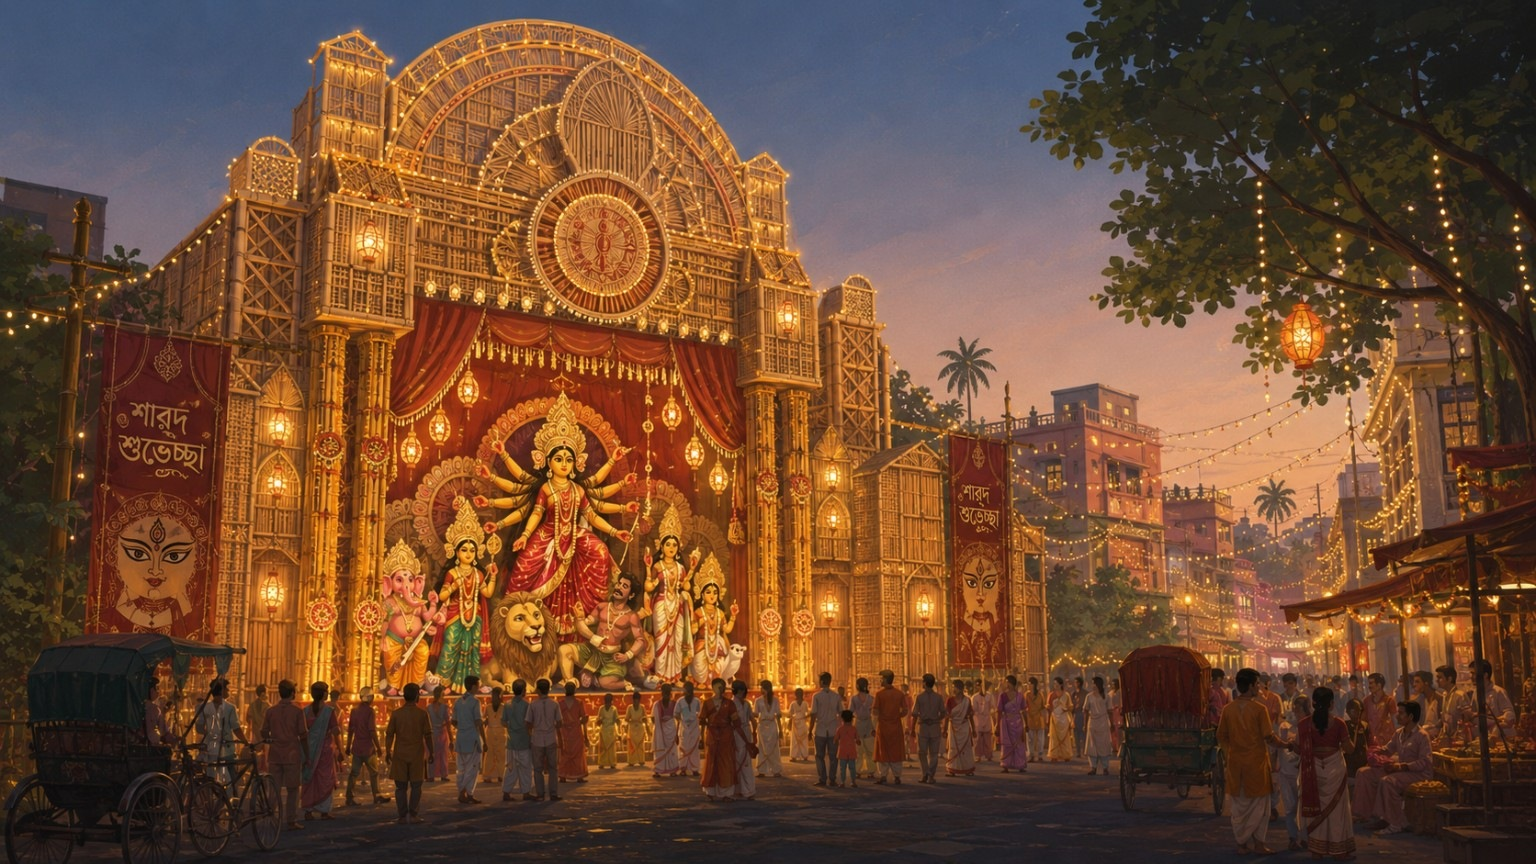
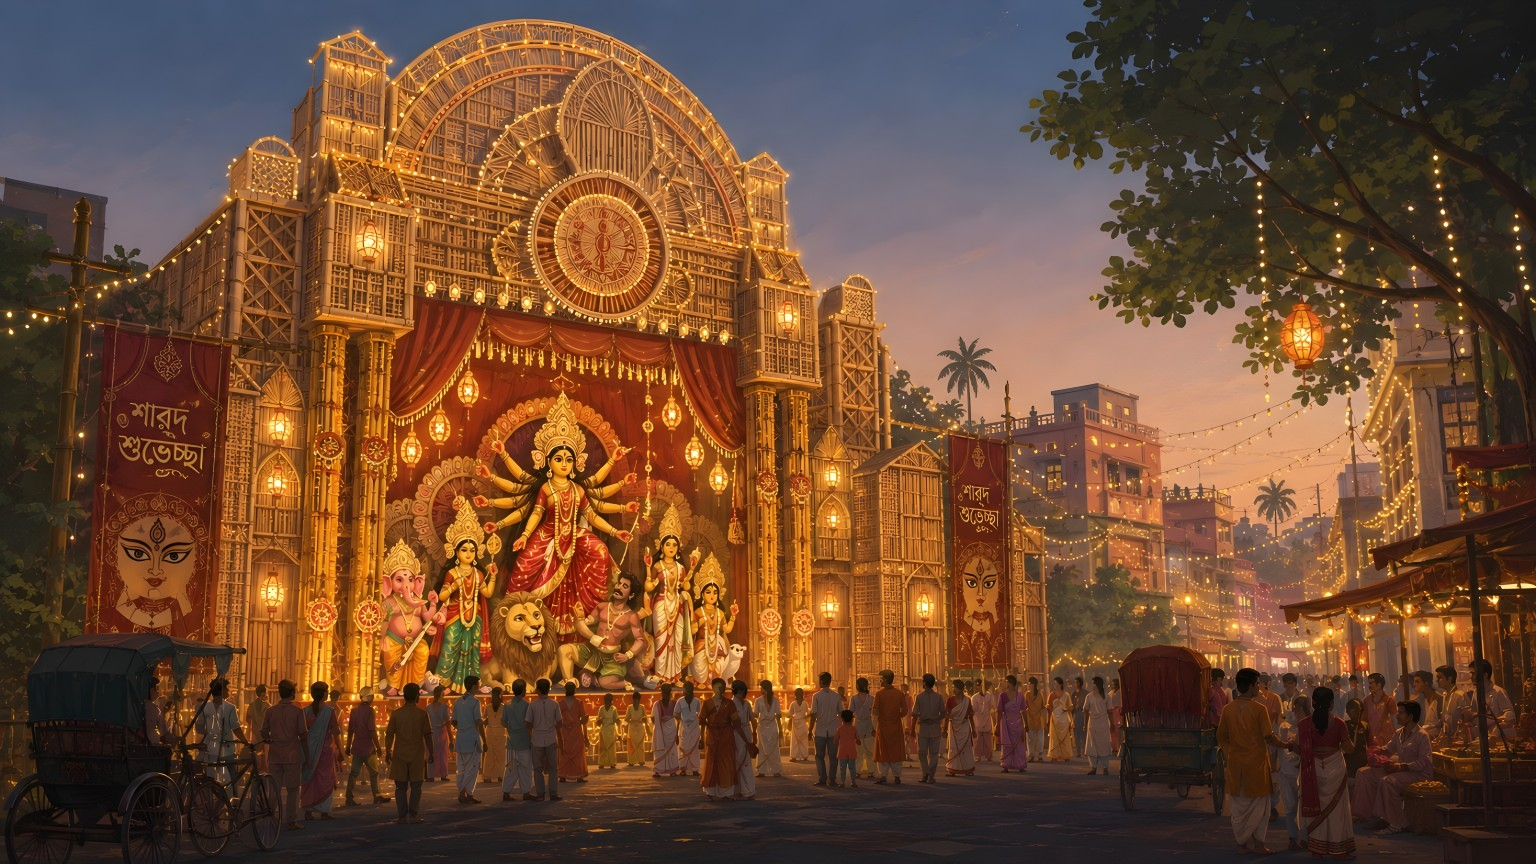
Add files via upload

Changed region(s): [[0.625, 0.5938, 0.6562, 0.625], [0.3438, 0.5, 0.375, 0.5312]]

diff --git a/script.js b/script.js
@@ -1,12 +1,17 @@
 const FESTIVALS={
- durga:{name:"Durga Puja",mark:"01",subtitle:"The first Puja day is almost here.",target:"2026-10-16T00:00:00+05:30",date:"Friday, 16 October 2026",playlistId:"PLcEXU5KhRttE",background:"/durga-puja.jpg"},
- kali:{name:"Kali Puja",mark:"02",subtitle:"A night of lights, devotion and celebration.",target:"2026-11-08T00:00:00+05:30",date:"Sunday, 8 November 2026",playlistId:"PLHwvw4RcSUnk",background:"/kali-puja.jpg"},
- diwali:{name:"Diwali",mark:"03",subtitle:"The festival of lights is getting closer.",target:"2026-11-08T00:00:00+05:30",date:"Sunday, 8 November 2026",playlistId:"PLVJ3mfjGvnXU",background:"/diwali.jpg"}
+ durga:{name:"Durga Puja",mark:"01",subtitle:"The first Puja day is almost here.",target:"2026-10-16T00:00:00+05:30",date:"Friday, 16 October 2026",playlistId:"PLcEXU5KhRttE",background:"/durga-puja.jpg",mobileBackground:"/durga-puja-mobile.jpg"},
+ kali:{name:"Kali Puja",mark:"02",subtitle:"A night of lights, devotion and celebration.",target:"2026-11-08T00:00:00+05:30",date:"Sunday, 8 November 2026",playlistId:"PLHwvw4RcSUnk",background:"/kali-puja.jpg",mobileBackground:"/kali-puja-mobile.jpg"},
+ mahalaya:{name:"Mahalaya",mark:"03",subtitle:"The sacred Mahalaya morning is getting closer.",target:"2026-10-10T00:00:00+05:30",date:"Saturday, 10 October 2026",playlistId:"PLZMOb9zpbEKQ",background:"/mahalaya.jpg",mobileBackground:"/mahalaya-mobile.jpg",
+   playlists:{
+     iconic:{name:"Iconic Mahalaya",playlistId:"PLZMOb9zpbEKQ"},
+     collection:{name:"Mahalaya Collection",playlistId:"PLPEyl3dIK7O0"}
+   }
+ }
 };
-let selected=(location.pathname.includes("/kali-puja-countdown/")?"kali":location.pathname.includes("/diwali-countdown/")?"diwali":"durga"),ytPlayer=null,shuffle=false,repeat=false,playlistCache={};
+let selected=(location.pathname.includes("/kali-puja-countdown/")?"kali":location.pathname.includes("/mahalaya-countdown/")?"mahalaya":"durga"),ytPlayer=null,shuffle=false,repeat=false,playlistCache={},currentPlaylistId=null,currentPlaylistKey="iconic";
 const $=s=>document.querySelector(s);
 
-let celebrationShown={durga:false,kali:false,diwali:false};
+let celebrationShown={durga:false,kali:false,mahalaya:false};
 
 const FESTIVE_MESSAGES={
   50:(name)=>`${name} is getting closer. There’s still a little time — enjoy the playlist and set the mood.`,
@@ -97,14 +102,41 @@ function renderFestival(){
  celebrationShown[selected]=false; document.body.classList.remove("festival-arrived");
  $("#festivalMark").textContent=f.mark;$("#festivalTitle").textContent=f.name;
  $("#festivalSubtitle").textContent=f.subtitle;$("#targetDate").textContent=f.date;
- $("#playlistName").textContent=f.name;$("#scene").style.backgroundImage=`url("${f.background}")`;
+ $("#playlistName").textContent=f.name;
+ const scene=$("#scene");
+ if(scene){
+   scene.style.setProperty("--desktop-bg",`url("${f.background}")`);
+   scene.style.setProperty("--mobile-bg",`url("${f.mobileBackground||f.background}")`);
+ }
  document.querySelectorAll(".tab").forEach(b=>b.classList.toggle("active",b.dataset.festival===selected));
- createYouTubePlayer("youtubePlayer",f.playlistId,185,false);
+
+ const choiceBox=$("#mahalayaPlaylistChoices");
+ if(choiceBox){
+   const isMahalaya=selected==="mahalaya";
+   choiceBox.hidden=!isMahalaya;
+   if(isMahalaya){
+     const validKeys=["iconic","collection"];
+     if(!validKeys.includes(currentPlaylistKey))currentPlaylistKey="iconic";
+     document.querySelectorAll(".playlist-choice").forEach(b=>{
+       const on=b.dataset.playlist===currentPlaylistKey;
+       b.classList.toggle("active",on);
+       b.setAttribute("aria-pressed",String(on));
+     });
+     currentPlaylistId=f.playlists[currentPlaylistKey].playlistId;
+   }else{
+     currentPlaylistId=f.playlistId;
+   }
+ }
+ if(ytPlayer && typeof ytPlayer.destroy==="function"){
+   try{ytPlayer.destroy();}catch(e){}
+   ytPlayer=null;
+ }
+ createYouTubePlayer("youtubePlayer",currentPlaylistId||f.playlistId,185,false);
 }
 function loadYTAPI(){
- if(window.YT?.Player){createYouTubePlayer("youtubePlayer",FESTIVALS[selected].playlistId,185,false);return;}
+ if(window.YT?.Player){createYouTubePlayer("youtubePlayer",currentPlaylistId||FESTIVALS[selected].playlistId,185,false);return;}
  if(document.getElementById("youtube-api"))return;
- window.onYouTubeIframeAPIReady=()=>createYouTubePlayer("youtubePlayer",FESTIVALS[selected].playlistId,185,false);
+ window.onYouTubeIframeAPIReady=()=>createYouTubePlayer("youtubePlayer",currentPlaylistId||FESTIVALS[selected].playlistId,185,false);
  const s=document.createElement("script");s.id="youtube-api";s.src="https://www.youtube.com/iframe_api";document.head.appendChild(s);
 }
 function createYouTubePlayer(containerId,playlistId,height,isModal=false){
@@ -162,7 +194,7 @@ $("#ytRepeat").addEventListener("click",()=>{repeat=!repeat;syncModes();ytPlayer
 async function getPlaylistItems(playlistId){
  if(playlistCache[playlistId])return playlistCache[playlistId];
 
- if(!Object.values(FESTIVALS).some(f=>f.playlistId===playlistId)){
+ if(!Object.values(FESTIVALS).some(f=>f.playlistId===playlistId) && !Object.values(FESTIVALS).some(f=>f.playlists && Object.values(f.playlists).some(p=>p.playlistId===playlistId))){
    throw new Error("Playlist is not configured.");
  }
 
@@ -275,7 +307,7 @@ async function openPlaylist(){
  box.innerHTML='<div class="playlist-loading"><span class="loading-dot"></span> Loading all songs…</div>';
 
  try{
-   const items=await getPlaylistItems(f.playlistId);
+   const items=await getPlaylistItems(currentPlaylistId||f.playlistId);
    renderPlaylistItems(items);
  }catch(e){
    box.innerHTML=
@@ -292,7 +324,26 @@ function closePlaylist(){
  document.body.style.overflow="";
 }
 
-document.querySelectorAll(".tab").forEach(b=>b.addEventListener("click",()=>{selected=b.dataset.festival;renderFestival();}));
+document.querySelectorAll(".tab").forEach(b=>b.addEventListener("click",()=>{selected=b.dataset.festival; if(selected!=="mahalaya")currentPlaylistKey="iconic"; renderFestival();}));
+
+document.querySelectorAll(".playlist-choice").forEach(b=>b.addEventListener("click",()=>{
+  if(selected!=="mahalaya")return;
+  currentPlaylistKey=b.dataset.playlist;
+  const f=FESTIVALS.mahalaya;
+  currentPlaylistId=f.playlists[currentPlaylistKey].playlistId;
+  document.querySelectorAll(".playlist-choice").forEach(x=>{
+    const on=x.dataset.playlist===currentPlaylistKey;
+    x.classList.toggle("active",on);
+    x.setAttribute("aria-pressed",String(on));
+  });
+  if(ytPlayer && typeof ytPlayer.destroy==="function"){
+    try{ytPlayer.destroy();}catch(e){}
+    ytPlayer=null;
+  }
+  createYouTubePlayer("youtubePlayer",currentPlaylistId,185,false);
+  $("#playlistName").textContent=f.name+" • "+f.playlists[currentPlaylistKey].name;
+  $("#playlistStatus").textContent="Playlist selected • tap play to begin";
+}));
 $("#openPlaylist").addEventListener("click",openPlaylist);$("#closePlaylist").addEventListener("click",closePlaylist);$("#closeByBackdrop").addEventListener("click",closePlaylist);
 document.addEventListener("keydown",e=>{if(e.key==="Escape"&&!$("#playlistModal").hidden)closePlaylist();});
 renderFestival();updateCountdown();setInterval(updateCountdown,1000);
@@ -346,5 +397,38 @@ renderFestival();updateCountdown();setInterval(updateCountdown,1000);
     if(e.key==="Escape"){
       document.querySelectorAll(".creator-modal:not([hidden])").forEach(m=>m.hidden=true);
     }
+  });
+})();
+
+/* Copyable UPI ID */
+(()=>{
+  const copyBtn=document.getElementById("copyUpi");
+  const value=document.getElementById("upiIdValue");
+  const status=document.getElementById("upiCopyStatus");
+  if(!copyBtn || !value)return;
+  copyBtn.addEventListener("click",async()=>{
+    const text=value.textContent.trim();
+    try{
+      await navigator.clipboard.writeText(text);
+      copyBtn.textContent="Copied!";
+      if(status)status.textContent="UPI ID copied to clipboard.";
+    }catch(e){
+      const area=document.createElement("textarea");
+      area.value=text;
+      area.setAttribute("readonly","");
+      area.style.position="fixed";
+      area.style.opacity="0";
+      document.body.appendChild(area);
+      area.select();
+      try{
+        document.execCommand("copy");
+        copyBtn.textContent="Copied!";
+        if(status)status.textContent="UPI ID copied to clipboard.";
+      }catch(_){
+        if(status)status.textContent="Copy failed — please copy the UPI ID manually.";
+      }
+      area.remove();
+    }
+    setTimeout(()=>{copyBtn.textContent="Copy"; if(status)status.textContent="";},1800);
   });
 })();

diff --git a/index.html b/index.html
@@ -4,23 +4,23 @@
   <meta charset="utf-8">
   <meta name="viewport" content="width=device-width, initial-scale=1, viewport-fit=cover">
   <meta name="theme-color" content="#111016">
-  <title>Utsav — Durga Puja, Kali Puja & Diwali Countdown 2026</title>
-  <meta name="description" content="Utsav is a live 2026 countdown for Durga Puja, Kali Puja and Diwali with festive backgrounds and YouTube music playlists.">
-  <meta name="keywords" content="Durga Puja countdown, Kali Puja countdown, Diwali countdown, Durga Puja 2026, Kali Puja 2026, Diwali 2026, Utsav">
+  <title>Utsav — Durga Puja, Kali Puja & Mahalaya Countdown 2026</title>
+  <meta name="description" content="Utsav is a live 2026 countdown for Durga Puja, Kali Puja and Mahalaya with festive artwork, real-time timers and nostalgic festive music playlists.">
+  <meta name="keywords" content="Durga Puja countdown, Kali Puja countdown, Mahalaya countdown, Durga Puja 2026, Kali Puja 2026, Mahalaya 2026, Mahalaya date 2026, Mahalaya days left, Utsav">
   <meta name="author" content="Utsav">
   <meta name="application-name" content="Utsav">
   <meta name="apple-mobile-web-app-title" content="Utsav">
   <meta property="og:image" content="https://utsav-countdown.vercel.app/durga-puja.jpg">
   <meta name="twitter:card" content="summary_large_image">
-  <meta name="twitter:title" content="Utsav — Durga Puja, Kali Puja & Diwali Countdown 2026">
-  <meta name="twitter:description" content="Live 2026 countdowns for Durga Puja, Kali Puja and Diwali, plus festive YouTube music playlists.">
+  <meta name="twitter:title" content="Utsav — Durga Puja, Kali Puja & Mahalaya Countdown 2026">
+  <meta name="twitter:description" content="Live 2026 countdowns for Durga Puja, Kali Puja and Mahalaya, plus festive YouTube music playlists.">
   <meta name="twitter:image" content="https://utsav-countdown.vercel.app/durga-puja.jpg">
   <script type="application/ld+json">
   {
     "@context":"https://schema.org",
     "@graph":[
-      {"@type":"WebSite","@id":"https://utsav-countdown.vercel.app/#website","url":"https://utsav-countdown.vercel.app/","name":"Utsav","description":"Live countdowns for Durga Puja, Kali Puja and Diwali."},
-      {"@type":"WebPage","@id":"https://utsav-countdown.vercel.app/#webpage","url":"https://utsav-countdown.vercel.app/","name":"Utsav — Durga Puja, Kali Puja & Diwali Countdown 2026","isPartOf":{"@id":"https://utsav-countdown.vercel.app/#website"},"about":[{"@type":"Thing","name":"Durga Puja"},{"@type":"Thing","name":"Kali Puja"},{"@type":"Thing","name":"Diwali"}]}
+      {"@type":"WebSite","@id":"https://utsav-countdown.vercel.app/#website","url":"https://utsav-countdown.vercel.app/","name":"Utsav","description":"Live countdowns for Durga Puja, Kali Puja and Mahalaya."},
+      {"@type":"WebPage","@id":"https://utsav-countdown.vercel.app/#webpage","url":"https://utsav-countdown.vercel.app/","name":"Utsav — Durga Puja, Kali Puja & Mahalaya Countdown 2026","isPartOf":{"@id":"https://utsav-countdown.vercel.app/#website"},"about":[{"@type":"Thing","name":"Durga Puja"},{"@type":"Thing","name":"Kali Puja"},{"@type":"Thing","name":"Mahalaya"}]}
     ]
   }
   </script>
@@ -28,8 +28,8 @@
   <meta name="robots" content="index, follow, max-image-preview:large">
   <link rel="canonical" href="https://utsav-countdown.vercel.app/">
   <meta property="og:type" content="website">
-  <meta property="og:title" content="Utsav — Durga Puja, Kali Puja & Diwali Countdown">
-  <meta property="og:description" content="Live Durga Puja, Kali Puja and Diwali countdowns with festive music.">
+  <meta property="og:title" content="Utsav — Durga Puja, Kali Puja & Mahalaya Countdown">
+  <meta property="og:description" content="Live Durga Puja, Kali Puja and Mahalaya countdowns with festive music.">
   <meta property="og:site_name" content="Utsav">
   <link rel="icon" href="/durga-puja.jpg">
   <link rel="stylesheet" href="/style.css">
@@ -72,7 +72,7 @@
       <nav class="tabs glass" aria-label="Festival">
         <a class="tab active" href="/durga-puja-countdown/" data-festival="durga"><small>01</small><span>Durga Puja</span></a>
         <a class="tab" href="/kali-puja-countdown/" data-festival="kali"><small>02</small><span>Kali Puja</span></a>
-        <a class="tab" href="/diwali-countdown/" data-festival="diwali"><small>03</small><span>Diwali</span></a>
+        <a class="tab" href="/mahalaya-countdown/" data-festival="mahalaya"><small>03</small><span>Mahalaya</span></a>
       </nav>
 
       <section class="music glass">
@@ -84,6 +84,15 @@
             <p id="playlistStatus">Full playlist player • tap play to begin</p>
           </div>
           <button class="playlist-button glass-button" id="openPlaylist" type="button">☷ Full playlist ↗</button>
+        </div>
+
+        <div class="playlist-choices" id="mahalayaPlaylistChoices" hidden aria-label="Choose a Mahalaya playlist">
+          <button type="button" class="playlist-choice active" data-playlist="iconic" aria-pressed="true">
+            <span>Iconic Mahalaya</span><small>Traditional favourites</small>
+          </button>
+          <button type="button" class="playlist-choice" data-playlist="collection" aria-pressed="false">
+            <span>Mahalaya Collection</span><small>More iconic songs</small>
+          </button>
         </div>
 
         <div class="youtube-player" id="youtubePlayer"></div>
@@ -109,8 +118,8 @@
     <summary>Utsav Festival Information</summary>
     <div class="seo-body">
       <h2 id="utsav-about-title">Utsav Festival Countdown 2026</h2>
-      <p>Utsav brings the <strong>Durga Puja countdown</strong>, <strong>Kali Puja countdown</strong> and <strong>Diwali countdown</strong> together in one live festival experience. The timer updates in real time and the music player lets you enjoy a festive playlist while you wait.</p>
-      <div class="festival-links"><a href="/durga-puja-countdown/">Durga Puja Countdown 2026</a><a href="/kali-puja-countdown/">Kali Puja Countdown 2026</a><a href="/diwali-countdown/">Diwali Countdown 2026</a></div>
+      <p>Utsav brings the <strong>Durga Puja countdown</strong>, <strong>Kali Puja countdown</strong> and <strong>Mahalaya countdown</strong> together in one live festival experience. The timer updates in real time and the music player lets you enjoy festive playlists while you wait.</p>
+      <div class="festival-links"><a href="/durga-puja-countdown/">Durga Puja Countdown 2026</a><a href="/kali-puja-countdown/">Kali Puja Countdown 2026</a><a href="/mahalaya-countdown/">Mahalaya Countdown 2026</a></div>
     </div>
   </details>
 </section>
@@ -151,7 +160,12 @@
       <h2 id="chaiTitle">Buy Me a Chai ☕</h2>
       <p>If Utsav made the festive countdown more enjoyable, you can support the project with a small voluntary contribution. It helps me keep improving and maintaining the site.</p>
       <img class="chai-qr" src="/buy-me-a-chai-qr.png" alt="UPI QR code to support Utsav">
-      <p class="upi-id"><strong>UPI:</strong> swarnavha1@fam</p>
+      <div class="upi-copy-row" aria-label="UPI ID">
+        <span class="upi-label">UPI ID</span>
+        <code id="upiIdValue">swarnavha1@fam</code>
+        <button type="button" class="upi-copy-button glass-button" id="copyUpi" aria-label="Copy UPI ID">Copy</button>
+      </div>
+      <p class="upi-copy-status" id="upiCopyStatus" aria-live="polite"></p>
       <p class="chai-small">No pressure at all — enjoying Utsav is already support. ❤</p>
     </section>
   </div>

diff --git a/style.css b/style.css
@@ -13,7 +13,7 @@ body{color:var(--white);font-family:Manrope,DM Sans,sans-serif;overflow-x:hidden
 button{font:inherit}
 .app{position:relative;min-height:100vh;min-height:100svh;isolation:isolate;overflow:hidden}
 .scene,.scene-overlay,.scene-vignette{position:absolute;inset:0}
-.scene{z-index:-4;background-position:center;background-size:cover;transition:background-image .35s ease,transform .8s ease}
+.scene{z-index:-4;background-image:var(--desktop-bg);background-position:center;background-size:cover;transition:background-image .35s ease,transform .8s ease}
 .scene-overlay{z-index:-3;background:linear-gradient(180deg,rgba(8,8,12,.22),rgba(12,9,12,.06) 40%,rgba(8,7,10,.62) 100%),linear-gradient(90deg,rgba(7,6,9,.24),transparent 52%,rgba(7,6,9,.15))}
 .scene-vignette{z-index:-2;box-shadow:inset 0 0 140px rgba(0,0,0,.38);pointer-events:none}
 .content{width:min(100% - 32px,1080px);min-height:100vh;min-height:100svh;margin:auto;padding:22px 0 24px;display:flex;flex-direction:column}
@@ -492,7 +492,7 @@ body.mood-mode #festivalTitle,
 body.mood-mode #festivalSubtitle,
 body.mood-mode #festivalMessage,
 body.mood-mode #targetDate,
-body.mood-mode .mood-toggle,
+
 body.mood-mode .playlist-modal{display:none!important}
 body.mood-mode .content{width:100%;min-height:100vh;min-height:100svh;padding:0;pointer-events:none}
 body.mood-mode .hero{width:100%;min-height:100vh;min-height:100svh;margin:0;display:flex;align-items:center;justify-content:center}
@@ -624,4 +624,106 @@ body.mood-mode .creator-modal{display:none!important}
   .creator-actions{gap:5px}
   .creator-action{padding:7px 9px;font-size:.62rem}
   .creator-action:nth-child(3){display:none}
+}
+
+/* Festival-specific responsive artwork */
+@media(max-width:700px){
+  .scene{
+    background-image:var(--mobile-bg);
+    background-size:contain;
+    background-position:center center;
+    background-repeat:no-repeat;
+    background-color:#111016;
+  }
+}
+
+/* Mahalaya playlist choices */
+.playlist-choices{
+  display:grid;
+  grid-template-columns:repeat(2,minmax(0,1fr));
+  gap:7px;
+  margin:0 3px 9px;
+}
+.playlist-choice{
+  min-height:46px;
+  border:1px solid rgba(255,255,255,.13);
+  border-radius:13px;
+  padding:7px 10px;
+  background:rgba(255,255,255,.045);
+  color:#fff;
+  text-align:left;
+  cursor:pointer;
+}
+.playlist-choice span,.playlist-choice small{display:block}
+.playlist-choice span{font-size:.62rem;font-weight:800}
+.playlist-choice small{margin-top:3px;color:rgba(255,255,255,.45);font-size:.49rem;font-weight:650}
+.playlist-choice.active{background:rgba(255,255,255,.14);border-color:rgba(255,255,255,.28)}
+@media(max-width:520px){
+  .playlist-choices{grid-template-columns:1fr}
+}
+
+/* Compact audio-first player: the YouTube iframe remains mounted for playback,
+   but the large video surface is removed from the visual UI. */
+.youtube-player{
+  position:absolute!important;
+  width:1px!important;
+  height:1px!important;
+  left:-10000px!important;
+  top:0!important;
+  opacity:0!important;
+  pointer-events:none!important;
+  overflow:hidden!important;
+}
+.youtube-player iframe{
+  width:1px!important;
+  height:1px!important;
+}
+
+/* Keep the Mood control visible so there is always a clear exit path. */
+body.mood-mode .mood-toggle{display:flex!important}
+body.mood-mode .mood-toggle{pointer-events:auto!important}
+
+/* Copyable UPI block */
+.upi-copy-row{
+  display:flex;
+  align-items:center;
+  gap:8px;
+  width:min(100%,360px);
+  margin:12px auto 4px;
+  padding:8px 9px;
+  border:1px solid rgba(255,255,255,.14);
+  border-radius:13px;
+  background:rgba(255,255,255,.055);
+}
+.upi-label{
+  color:rgba(255,255,255,.48);
+  font-size:.56rem;
+  font-weight:800;
+  white-space:nowrap;
+}
+.upi-copy-row code{
+  flex:1;
+  min-width:0;
+  color:#fff;
+  font-size:.66rem;
+  font-family:ui-monospace,SFMono-Regular,Menlo,monospace;
+  white-space:nowrap;
+  overflow:hidden;
+  text-overflow:ellipsis;
+}
+.upi-copy-button{
+  min-height:31px;
+  padding:0 10px;
+  border-radius:9px;
+  color:#fff;
+  cursor:pointer;
+  font-size:.55rem;
+  font-weight:800;
+}
+.upi-copy-status{
+  min-height:14px;
+  margin:3px 0 0!important;
+  color:rgba(255,255,255,.5)!important;
+  font-size:.5rem!important;
+  text-align:center;
 }

diff --git a/README.md b/README.md
@@ -82,3 +82,9 @@ The three dedicated festival SEO pages are retained. Shared CSS/JS/image referen
 
 ## Latest UI update
 The YouTube player is always available and is not collapsible. SEO information is presented as a compact native disclosure button; the SEO copy remains in the page HTML and can be expanded by the visitor.
+
+
+## Festival artwork
+- Desktop/mobile artwork is provided for Durga Puja, Kali Puja and Mahalaya.
+- Mahalaya uses two selectable YouTube playlists: Iconic Mahalaya and Mahalaya Collection.
+- The Buy Me a Chai dialog includes a copyable UPI ID block.
